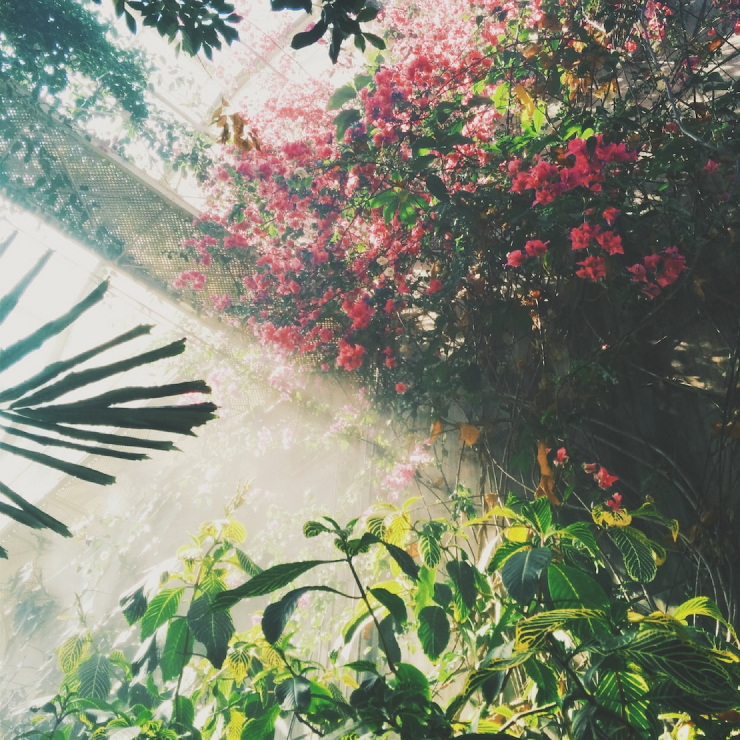
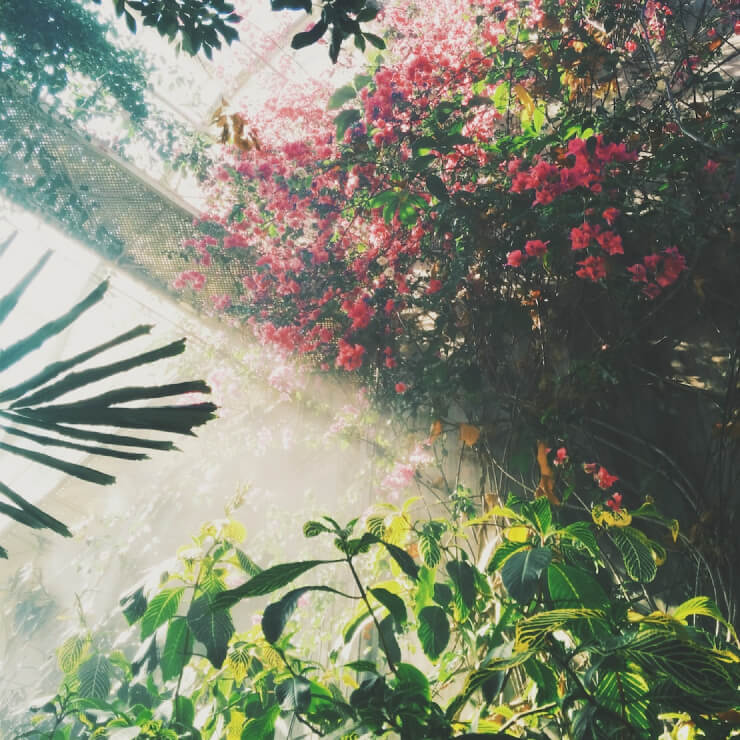
обновка
обновление

diff --git a/index.html b/index.html
@@ -78,7 +78,7 @@ style="width: 95%;">
 <tr>
     <td width="49%">
         <br>
-        <img src="img/house.png"
+        <img src="img/house.jpg"
            width="100%"> 
     </td>
     <td width="20"> </td>
